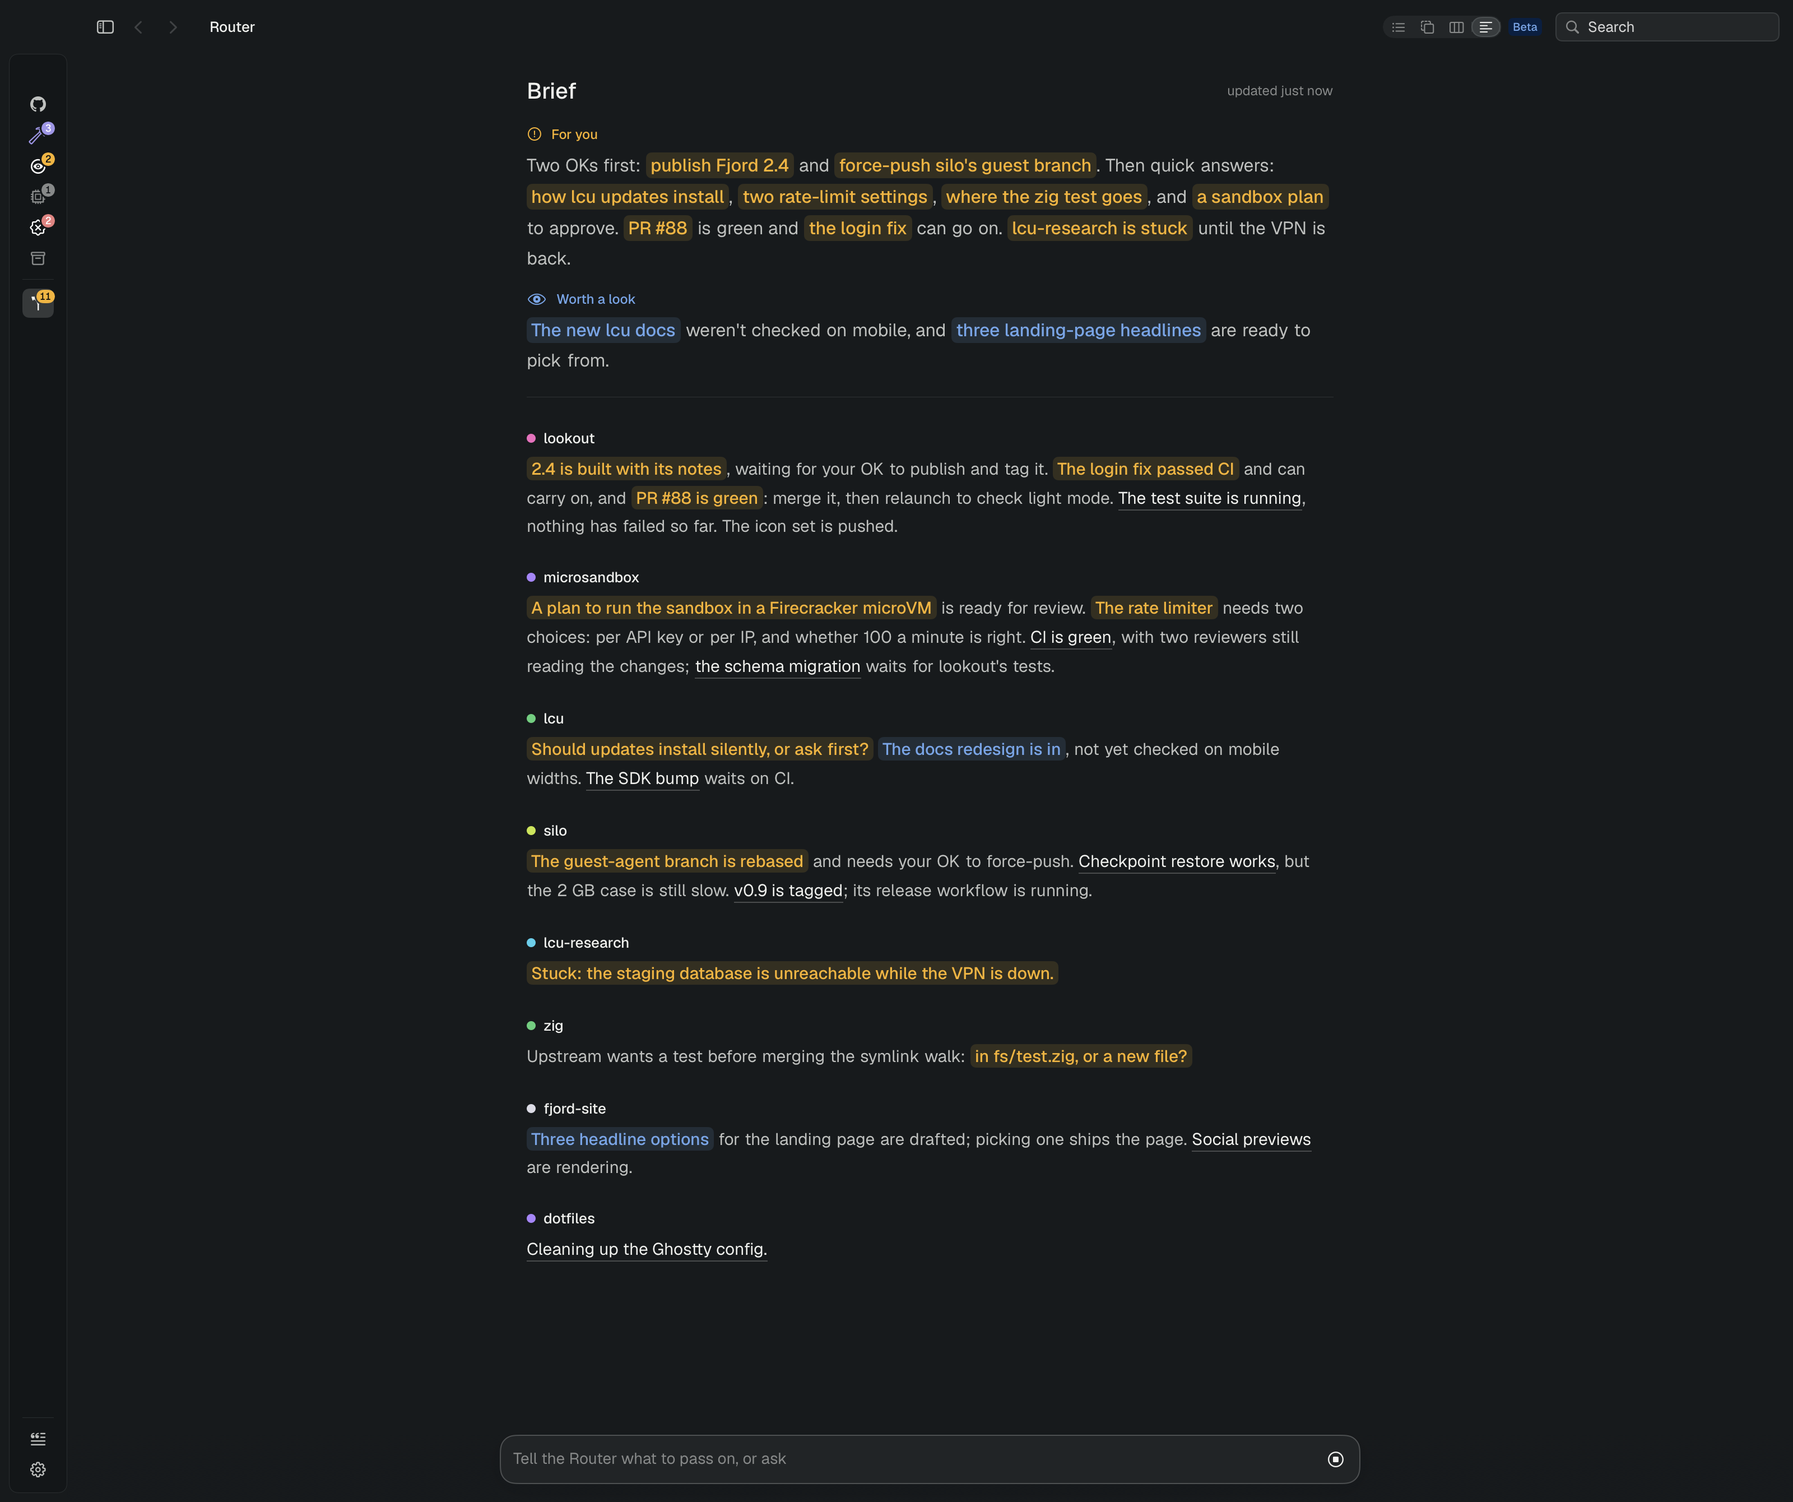
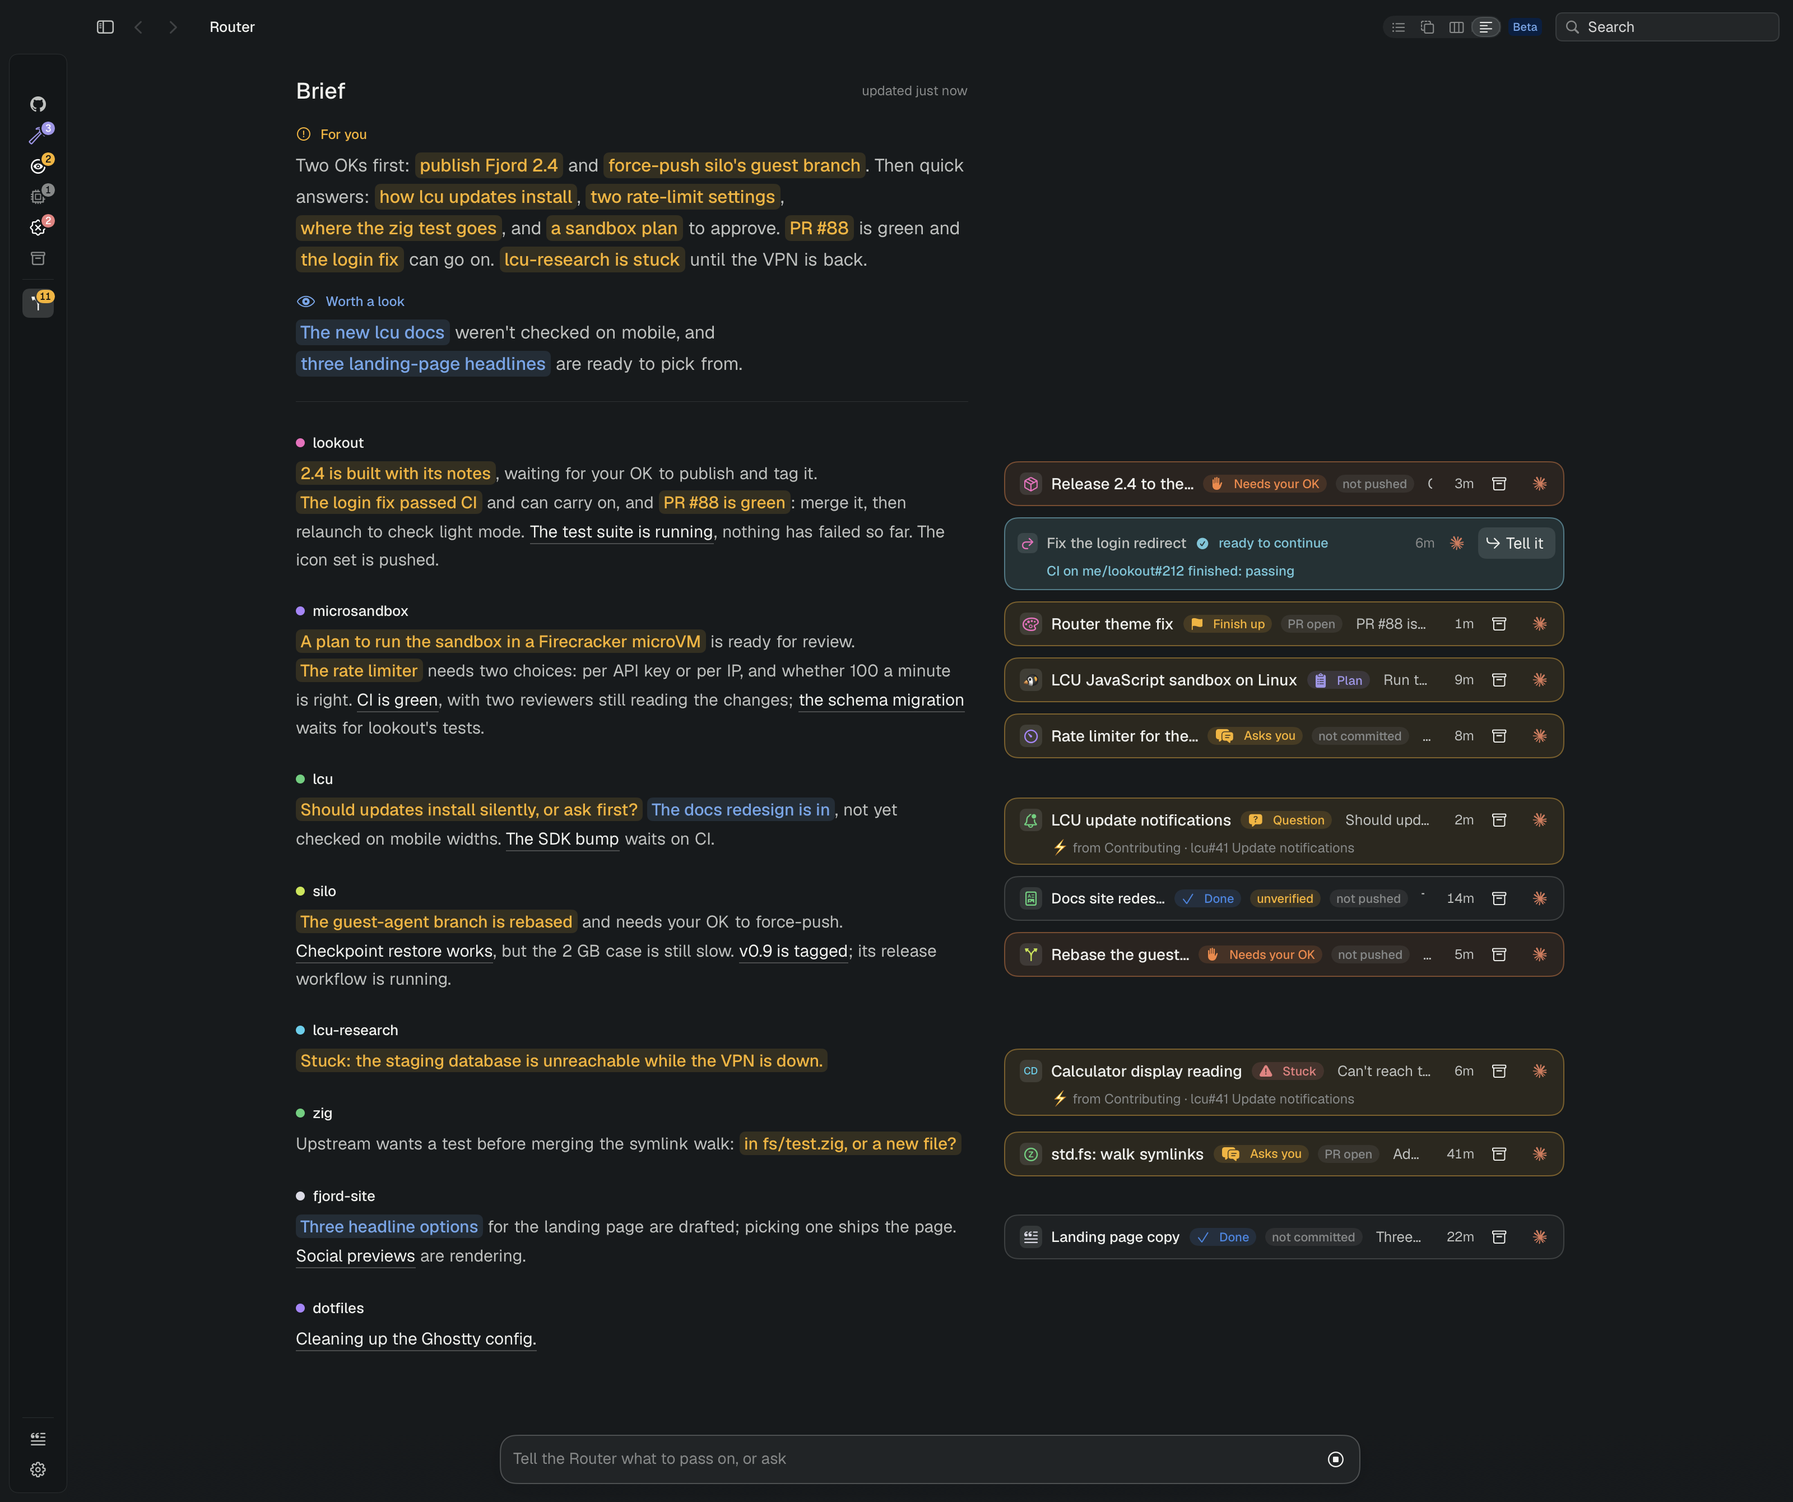
feat: Brief cards in a margin beside the text, lined up with their highlights

diff --git a/Sources/Fjord/RouterDigest.swift b/Sources/Fjord/RouterDigest.swift
@@ -72,6 +72,10 @@ enum DigestMarkup {
     var hovered: String?
     /// "paragraph#session" opened under its paragraph.
     var open: String?
+    /// With the margin: the session whose highlight or card is under the pointer (both light up).
+    var hoverSession: String?
+    /// Where each highlight ("paragraph#session") sits down the page, which its card in the margin lines up with.
+    var anchors: [String: CGFloat] = [:]
 }
 
 // MARK: - Page
@@ -81,19 +85,49 @@ struct DigestPage: View {
     let model: RouterModel
 
     static let column: CGFloat = 720
+    /// With the margin: the text's width, the gap, and the cards' column.
+    static let text: CGFloat = 600
+    static let gap: CGFloat = 32
+    static let marginWidth: CGFloat = 500
+    static let space = "digest"
 
     var body: some View {
         let page = model.zones(store)
         let folders = model.canvasFolders(store, page: page)
         let items = Self.items(folders)
-        Scrolling {
-            if let digest = store.routerDigest {
+        GeometryReader { geometry in
+            // The cards in a margin beside the text, as a document's comments, when there's room; else each opens under
+            // its paragraph.
+            let margin = geometry.size.width >= Self.text + Self.gap + Self.marginWidth + 64
+            Scrolling {
+                if let digest = store.routerDigest {
+                    HStack(alignment: .top, spacing: Self.gap) {
+                        text(digest, folders: folders, items: items, page: page, margin: margin)
+                            .frame(width: margin ? Self.text : nil)
+                            .frame(maxWidth: margin ? Self.text : Self.column, alignment: .leading)
+                        if margin {
+                            DigestMargin(store: store, model: model, page: page, items: items, digest: digest)
+                                .frame(width: Self.marginWidth, alignment: .topLeading)
+                        }
+                    }
+                    .coordinateSpace(.named(Self.space))
+                    .padding(.horizontal, 32)
+                    .padding(.top, 20)
+                    .padding(.bottom, LaneMetrics.bottom)
+                    .frame(maxWidth: .infinity)
+                }
+            }
+        }
+    }
+
+    private func text(_ digest: RouterDigest, folders: [CanvasFolder], items: [String: CanvasItem], page: RouterPage,
+                      margin: Bool) -> some View {
                 VStack(alignment: .leading, spacing: 28) {
-                    lead(digest, items: items, page: page)
+                    lead(digest, items: items, page: page, margin: margin)
                     ForEach(digest.projects) { project in
                         let folder = folders.first { $0.key == project.folder }
                         DigestParagraph(store: store, model: model, page: page, items: items, key: project.folder,
-                                        markup: project.text) {
+                                        markup: project.text, margin: margin) {
                             HStack(spacing: 7) {
                                 Circle().fill(folder?.color ?? CDS.Text.muted).frame(width: 8, height: 8)
                                 Text(folder?.name ?? (project.folder as NSString).lastPathComponent)
@@ -103,17 +137,10 @@ struct DigestPage: View {
                         .zIndex(model.digest.hovered?.hasPrefix(project.folder + "#") == true ? 1 : 0)
                     }
                 }
-                .frame(maxWidth: Self.column, alignment: .leading)
-                .padding(.horizontal, 32)
-                .padding(.top, 20)
-                .padding(.bottom, LaneMetrics.bottom)
-                .frame(maxWidth: .infinity)
-            }
-        }
     }
 
     /// The lead: what's for you, then what's worth a look, each under its name in its colour.
-    private func lead(_ digest: RouterDigest, items: [String: CanvasItem], page: RouterPage) -> some View {
+    private func lead(_ digest: RouterDigest, items: [String: CanvasItem], page: RouterPage, margin: Bool) -> some View {
         VStack(alignment: .leading, spacing: 18) {
             HStack {
                 Text("Brief").font(CDS.sans(20, .semibold)).foregroundStyle(CDS.Text.primary)
@@ -121,14 +148,14 @@ struct DigestPage: View {
                 Text("updated " + agoPhrase(digest.at)).font(CDS.sans(12)).foregroundStyle(CDS.Text.muted)
             }
             DigestParagraph(store: store, model: model, page: page, items: items, key: "lead-you", markup: digest.forYou,
-                            size: 16) {
+                            size: 16, margin: margin) {
                 Label("For you", systemImage: RouterZone.needs.symbol)
                     .font(CDS.sans(12, .semibold)).foregroundStyle(RouterZone.needs.tint)
             }
             .zIndex(model.digest.hovered?.hasPrefix("lead-you#") == true ? 2 : 1)
             if !digest.worthALook.isEmpty {
                 DigestParagraph(store: store, model: model, page: page, items: items, key: "lead-look",
-                                markup: digest.worthALook, size: 16) {
+                                markup: digest.worthALook, size: 16, margin: margin) {
                     Label("Worth a look", systemImage: RouterZone.notes.symbol)
                         .font(CDS.sans(12, .semibold)).foregroundStyle(CDS.Text.accent)
                 }
@@ -168,6 +195,8 @@ private struct DigestParagraph<Title: View>: View {
     let key: String
     let markup: String
     var size: CGFloat = 15
+    /// The cards are in the margin: none opens under the paragraph.
+    var margin = false
     @ViewBuilder let title: Title
 
     var body: some View {
@@ -183,13 +212,13 @@ private struct DigestParagraph<Title: View>: View {
                             .layoutValue(key: TightKey.self, value: tight)
                     case .span(let kind, let session, let text, let tight):
                         DigestSpan(store: store, model: model, page: page, item: items[session], kind: kind,
-                                   id: key + "#" + session, text: text, size: size)
+                                   id: key + "#" + session, session: session, text: text, size: size, margin: margin)
                             .layoutValue(key: TightKey.self, value: tight)
                             .zIndex(state.hovered == key + "#" + session ? 1 : 0)
                     }
                 }
             }
-            if let opened, let item = items[opened] {
+            if !margin, let opened, let item = items[opened] {
                 HStack(alignment: .top, spacing: 8) {
                     CanvasNode(item: item, store: store, model: model, page: page)
                         .frame(maxWidth: 560, alignment: .leading)
@@ -237,8 +266,10 @@ private struct DigestParagraph<Title: View>: View {
     }
 }
 
-/// A highlight: its words in its colour on a soft ground. Hovered, its card floats under it; clicked, it opens under the
-/// paragraph and the composer answers it.
+
+/// A highlight: its words in its colour on a soft ground. With the margin, its card is beside it: hovering either lights
+/// both, clicking opens the card there. Without, its card floats under it while hovered and opens under the paragraph.
+/// Clicked, the composer answers it.
 private struct DigestSpan: View {
     let store: Store
     let model: RouterModel
@@ -246,23 +277,24 @@ private struct DigestSpan: View {
     let item: CanvasItem?
     let kind: DigestMarkup.Kind
     let id: String
+    let session: String
     let text: String
     let size: CGFloat
+    let margin: Bool
 
     var body: some View {
         let state = model.digest
-        let hovered = state.hovered == id
-        let open = state.open == id
+        let hovered = margin ? state.hoverSession == session : state.hovered == id
+        let open = margin ? item.flatMap(DigestMargin.cardID) == model.selection && model.selection != nil : state.open == id
         let shape = RoundedRectangle(cornerRadius: 5, style: .continuous)
         Button {
             withAnimation(Motion.spatial.resolved(reduce: false)) {
-                state.open = open ? nil : id
-                state.hovered = nil
-            }
-            if !open, let item {
-                switch item {
-                case .need(let c), .ready(let c), .note(let c): model.select(c.id, store: store, reveal: false)
-                default: break
+                if margin {
+                    DigestMargin.toggle(item, model: model, store: store)
+                } else {
+                    state.open = open ? nil : id
+                    state.hovered = nil
+                    if !open, let card = item.flatMap(DigestMargin.cardID) { model.select(card, store: store, reveal: false) }
                 }
             }
         } label: {
@@ -273,7 +305,7 @@ private struct DigestSpan: View {
                 .padding(.vertical, 1)
                 .background {
                     if kind != .run {
-                        shape.fill(kind.tint.opacity(hovered || open ? 0.26 : 0.13))
+                        shape.fill(kind.tint.opacity(hovered || open ? 0.28 : 0.13))
                     }
                 }
                 .overlay(alignment: .bottom) {
@@ -281,15 +313,24 @@ private struct DigestSpan: View {
                         Rectangle().fill(CDS.Text.muted.opacity(hovered ? 0.9 : 0.45)).frame(height: 1).offset(y: 1)
                     }
                 }
-                .overlay { if open { shape.strokeBorder(kind.tint.opacity(0.7), lineWidth: 1) } }
+                .overlay { if open { shape.strokeBorder(kind.tint.opacity(0.75), lineWidth: 1) } }
                 .contentShape(shape)
         }
         .buttonStyle(.plain)
         .onHover { inside in
-            if inside { state.hovered = id } else if state.hovered == id { state.hovered = nil }
+            if margin {
+                if inside { state.hoverSession = session } else if state.hoverSession == session { state.hoverSession = nil }
+            }
+            // The peek: always for a running session (it has no card in the margin), else only without the margin.
+            if !margin || kind == .run {
+                if inside { state.hovered = id } else if state.hovered == id { state.hovered = nil }
+            }
+        }
+        .onGeometryChange(for: CGFloat.self) { $0.frame(in: .named(DigestPage.space)).minY } action: { y in
+            if state.anchors[id] != y { state.anchors[id] = y }
         }
         .overlay(alignment: .topLeading) {
-            if hovered, !open, let item {
+            if state.hovered == id, !open, let item {
                 DigestPeek(item: item, page: page)
                     .frame(width: 400, alignment: .leading)
                     .fixedSize(horizontal: false, vertical: true)
@@ -300,6 +341,137 @@ private struct DigestSpan: View {
         }
         .accessibilityLabel(text)
         .accessibilityHint(item == nil ? "" : "Opens its card")
+    }
+}
+
+/// The cards the text points at, beside it as a document's comments: each at the height of its highlight in its project's
+/// paragraph (the lead's only when the project's has none), pushed down so none overlaps. The one opened sits exactly at its
+/// highlight, those before it moving up to make room, as comments do.
+private struct DigestMargin: View {
+    let store: Store
+    let model: RouterModel
+    let page: RouterPage
+    let items: [String: CanvasItem]
+    let digest: RouterDigest
+
+    var body: some View {
+        let state = model.digest
+        let entries = entries(state.anchors)
+        let active = entries.firstIndex { Self.cardID($0.item) == model.selection }
+        DigestMarginLayout(active: active, gap: 10) {
+            ForEach(entries, id: \.session) { entry in
+                let lit = state.hoverSession == entry.session
+                let isActive = Self.cardID(entry.item) == model.selection
+                CanvasNode(item: entry.item, store: store, model: model, page: page)
+                    .overlay {
+                        RoundedRectangle(cornerRadius: 12, style: .continuous)
+                            .strokeBorder(lit && !isActive ? CDS.Text.accent.opacity(0.8) : .clear, lineWidth: 1.5)
+                            .allowsHitTesting(false)
+                    }
+                    .opacity(active == nil || isActive || lit ? 1 : 0.72)
+                    .offset(x: isActive ? -10 : 0)
+                    .onHover { inside in
+                        if inside { state.hoverSession = entry.session } else if state.hoverSession == entry.session { state.hoverSession = nil }
+                    }
+                    .layoutValue(key: MarginAnchor.self, value: entry.y)
+            }
+        }
+        .animation(Motion.spatial.resolved(reduce: false), value: model.selection)
+        .animation(Motion.spatial.resolved(reduce: false), value: model.expandedNeed)
+    }
+
+    private struct Entry {
+        let session: String
+        let item: CanvasItem
+        let y: CGFloat
+    }
+
+    /// The sessions with a card the text points at, top to bottom, each at its highlight.
+    private func entries(_ anchors: [String: CGFloat]) -> [Entry] {
+        var best: [String: (y: CGFloat, lead: Bool)] = [:]
+        let paragraphs = [("lead-you", digest.forYou), ("lead-look", digest.worthALook)] + digest.projects.map { ($0.folder, $0.text) }
+        for (key, text) in paragraphs {
+            let lead = key.hasPrefix("lead-")
+            for case .span(let kind, let session, _) in DigestMarkup.parse(text) where kind != .run {
+                guard let y = anchors[key + "#" + session] else { continue }
+                if let had = best[session], !had.lead || lead { continue }
+                best[session] = (y, lead)
+            }
+        }
+        return best.compactMap { session, at in
+            guard let item = items[session], Self.cardID(item) != nil else { return nil }
+            return Entry(session: session, item: item, y: at.y)
+        }
+        .sorted { $0.y < $1.y }
+    }
+
+    /// The open card an item is, if it has one the margin shows.
+    static func cardID(_ item: CanvasItem) -> String? {
+        switch item {
+        case .need(let c), .ready(let c), .note(let c): c.id
+        default: nil
+        }
+    }
+
+    /// A highlight or card clicked: its card opens (and the composer answers it), or, open already, folds.
+    static func toggle(_ item: CanvasItem?, model: RouterModel, store: Store) {
+        guard let item, let id = cardID(item) else { return }
+        if model.selection == id {
+            model.expandedNeed = nil
+            model.selection = nil
+            model.replyTo = nil
+        } else {
+            model.select(id, store: store, reveal: false)
+        }
+    }
+}
+
+private struct MarginAnchor: LayoutValueKey { static let defaultValue: CGFloat = 0 }
+
+/// The margin's cards, each at its anchor or as close under it as the cards above allow; the active one exactly at its
+/// anchor, the ones above it moved up as far as needed (never above the top).
+private struct DigestMarginLayout: Layout {
+    let active: Int?
+    let gap: CGFloat
+
+    func sizeThatFits(proposal: ProposedViewSize, subviews: Subviews, cache: inout ()) -> CGSize {
+        let width = proposal.width ?? DigestPage.marginWidth
+        let frames = frames(subviews, width: width)
+        return CGSize(width: width, height: frames.map { $0.maxY }.max() ?? 0)
+    }
+
+    func placeSubviews(in bounds: CGRect, proposal: ProposedViewSize, subviews: Subviews, cache: inout ()) {
+        for (i, frame) in frames(subviews, width: bounds.width).enumerated() {
+            subviews[i].place(at: CGPoint(x: bounds.minX, y: bounds.minY + frame.minY),
+                              proposal: ProposedViewSize(width: bounds.width, height: frame.height))
+        }
+    }
+
+    private func frames(_ subviews: Subviews, width: CGFloat) -> [CGRect] {
+        let heights = subviews.map { $0.sizeThatFits(ProposedViewSize(width: width, height: nil)).height }
+        let anchors = subviews.map { $0[MarginAnchor.self] }
+        var ys = anchors
+        let pivot = active ?? 0
+        guard !ys.isEmpty else { return [] }
+        // From the pivot down: each under the one above.
+        for i in pivot..<ys.count where i > pivot {
+            ys[i] = max(anchors[i], ys[i - 1] + heights[i - 1] + gap)
+        }
+        // From the pivot up: each over the one below, at its anchor if it fits.
+        if pivot > 0 {
+            for i in stride(from: pivot - 1, through: 0, by: -1) {
+                ys[i] = min(anchors[i], ys[i + 1] - heights[i] - gap)
+            }
+        }
+        // Nothing above the top: push everything down from the first, as a last resort.
+        if let first = ys.first, first < 0 {
+            ys[0] = 0
+            for i in 1..<ys.count { ys[i] = max(ys[i], ys[i - 1] + heights[i - 1] + gap) }
+        }
+        if active == nil {
+            for i in 1..<max(1, ys.count) { ys[i] = max(anchors[i], ys[i - 1] + heights[i - 1] + gap) }
+        }
+        return zip(ys, heights).map { CGRect(x: 0, y: $0, width: width, height: $1) }
     }
 }
 

diff --git a/Sources/Fjord/AppWindowShots.swift b/Sources/Fjord/AppWindowShots.swift
@@ -347,7 +347,7 @@ enum AppWindowShots {
         Shot(name: "router-brief-hover", destination: { _ in .router }, sidebarHidden: true, size: CGSize(width: 1600, height: 1340),
              compose: { model, store in
                  Demo.routerDigest(store); model.pickBrief()
-                 model.digest.hovered = "/Users/me/code/microsandbox#local_demo-api"
+                 model.digest.hoverSession = "local_demo-api"
              }, appearance: .aqua),
         Shot(name: "router-brief-open", destination: { _ in .router }, sidebarHidden: true, size: CGSize(width: 1600, height: 1700),
              compose: { model, store in
